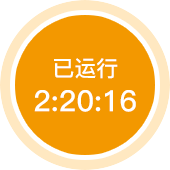
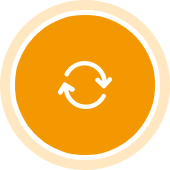
翻身图标

Changed region(s): [[0.2059, 0.3235, 0.7059, 0.6765], [0.7059, 0.5294, 0.8235, 0.6765]]

diff --git a/pcapp/src/components/smartdevice/patientinfo_smartdevice.js b/pcapp/src/components/smartdevice/patientinfo_smartdevice.js
@@ -140,7 +140,7 @@ class App extends React.Component {
 
 						 <div onClick={
 								()=>{
-									this.onClickTurnover();
+									// this.onClickTurnover();
 								}
 							}>
 							<img src="custom.png" alt=""/><p>暂不支持</p>
